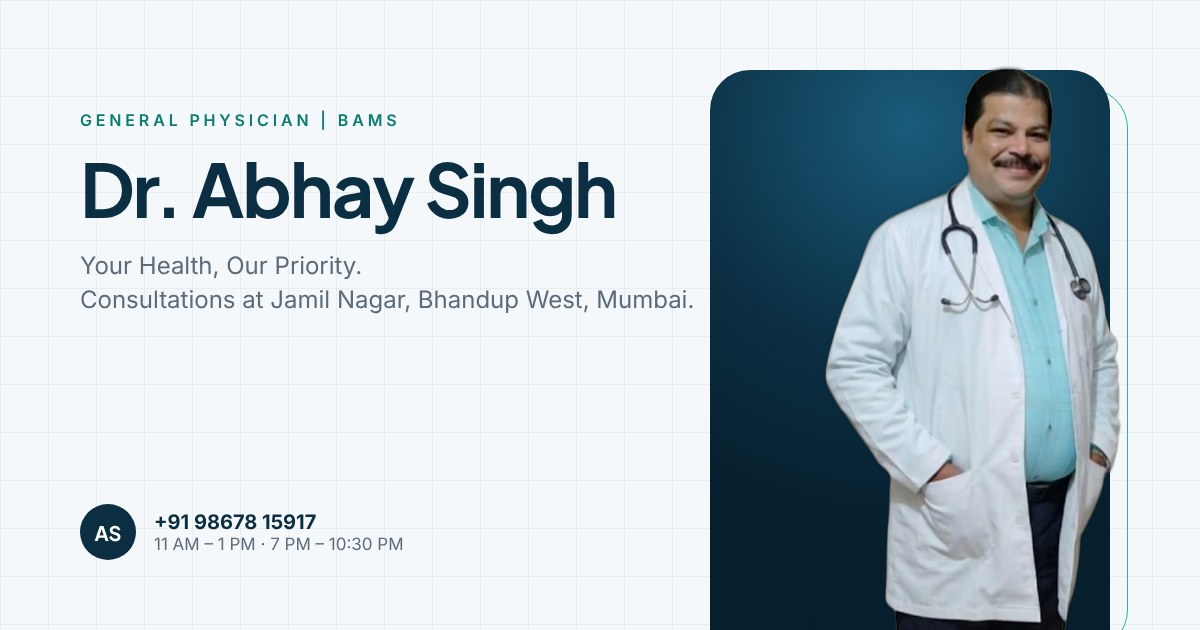
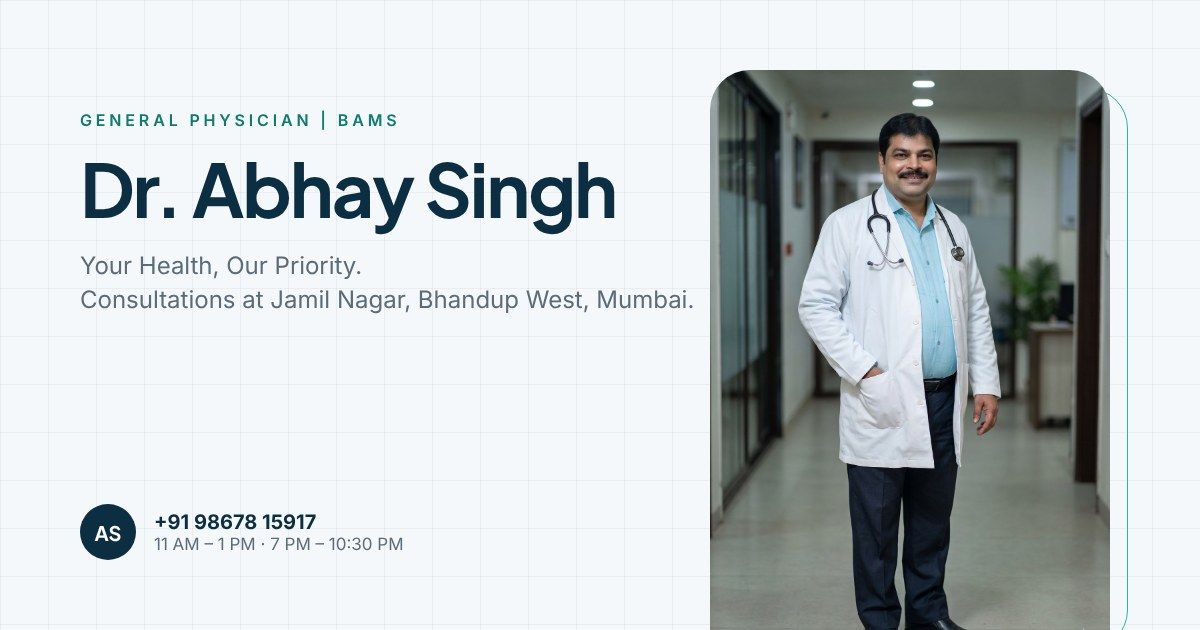
Replace hero photo with new full-length photograph
Use the new full-length white-coat photograph supplied by the practice as
the hero image (public/images/doctor-hero.jpg + .webp, 1200x1789), shown
uncut and unaltered inside a rounded frame with clip/blur reveal, light
sweep, parallax and hover zoom. Remove the old cut-out image, and update
structured data, preload hint, OG share image and README.

Claude-Session: https://claude.ai/code/session_016jrmgrJxnS4hWA3d865fSS

Changed region(s): [[0.5858, 0.0905, 0.9558, 1.0]]

diff --git a/src/components/Hero.tsx b/src/components/Hero.tsx
@@ -94,7 +94,7 @@ export function Hero({ ready }: { ready: boolean }) {
   const { scrollYProgress } = useScroll({ target: ref, offset: ["start start", "end start"] });
 
   // Scroll-linked parallax
-  const imgY = useTransform(scrollYProgress, [0, 1], ["0%", reduce ? "0%" : "10%"]);
+  const imgY = useTransform(scrollYProgress, [0, 1], ["0%", reduce ? "0%" : "5%"]);
   const textY = useTransform(scrollYProgress, [0, 1], ["0%", reduce ? "0%" : "-16%"]);
   const textOpacity = useTransform(scrollYProgress, [0, 0.7], [1, 0]);
   const ringsRotate = useTransform(scrollYProgress, [0, 1], [0, reduce ? 0 : 70]);
@@ -281,36 +281,46 @@ export function Hero({ ready }: { ready: boolean }) {
               animate={ready ? { opacity: 1, scale: 1 } : {}}
               transition={{ duration: 1.4, delay: d + 0.6, ease: EASE }}
             />
-            {/* Panel with reveal */}
-            <motion.div
-              className="absolute inset-0 overflow-hidden rounded-[40px] bg-navy shadow-lift"
+            {/* Doctor photograph — original photo, unaltered; cropped by layout only */}
+            <motion.figure
+              className="group absolute inset-0 m-0 overflow-hidden rounded-[40px] bg-navy shadow-lift"
               initial={{ clipPath: "inset(100% 0% 0% 0% round 40px)" }}
               animate={ready ? { clipPath: "inset(0% 0% 0% 0% round 40px)" } : {}}
               transition={{ duration: 1.4, delay: d, ease: EASE_IN_OUT }}
             >
-              <div className="absolute inset-0 bg-[radial-gradient(110%_75%_at_50%_10%,#1A5B7A_0%,#0B2E42_55%,#071E2C_100%)]" />
-              <div className="absolute inset-0 opacity-60 [background-image:linear-gradient(to_right,rgba(255,255,255,.06)_1px,transparent_1px),linear-gradient(to_bottom,rgba(255,255,255,.06)_1px,transparent_1px)] [background-size:40px_40px]" />
-              <Rings className="absolute left-1/2 top-[8%] w-[88%] -translate-x-1/2 text-teal/25" />
-              <div className="absolute inset-x-0 bottom-[22%] h-16 text-teal/50">
-                <PulseLine inView={false} delay={d + 1} className="h-full w-full" />
-              </div>
-              <div className="absolute inset-x-0 bottom-0 h-1/3 bg-gradient-to-t from-navy-deep/80 to-transparent" />
-            </motion.div>
-
-            {/* Doctor photograph (real photo, background removed — face untouched) */}
-            <motion.div className="absolute inset-x-0 bottom-0 top-[-6%] z-10 overflow-hidden rounded-b-[40px]" style={{ y: imgY }}>
-              <motion.img
-                src="/images/doctor-hero.webp"
-                alt={`${doctor.name}, ${doctor.title}, wearing a white coat and stethoscope`}
-                width={500}
-                height={980}
-                {...{ fetchpriority: "high" }}
-                className="absolute bottom-0 left-1/2 h-full w-auto max-w-none -translate-x-1/2 object-contain object-bottom drop-shadow-[0_30px_40px_rgba(7,30,44,.5)]"
-                initial={{ opacity: 0, y: 80, scale: 1.08 }}
-                animate={ready ? { opacity: 1, y: 0, scale: 1 } : {}}
-                transition={{ duration: 1.5, delay: d + 0.45, ease: EASE }}
-              />
-            </motion.div>
+              <motion.div className="absolute inset-x-0 top-[-4%] h-[108%]" style={{ y: imgY }}>
+                <div className="h-full w-full transition-transform duration-[1.4s] ease-[cubic-bezier(.16,1,.3,1)] group-hover:scale-[1.04]">
+                  <picture className="block h-full w-full">
+                    <source srcSet="/images/doctor-hero.webp" type="image/webp" />
+                    <motion.img
+                      src="/images/doctor-hero.jpg"
+                      alt={`${doctor.name}, ${doctor.title}, in a white coat with a stethoscope`}
+                      width={1200}
+                      height={1789}
+                      {...{ fetchpriority: "high" }}
+                      className="h-full w-full object-cover object-[50%_0%]"
+                      initial={{ scale: 1.18, filter: "blur(6px)" }}
+                      animate={ready ? { scale: 1, filter: "blur(0px)" } : {}}
+                      transition={{ duration: 1.8, delay: d + 0.2, ease: EASE }}
+                    />
+                  </picture>
+                </div>
+              </motion.div>
+              {/* Tonal overlays: depth at the base, soft teal light on hover */}
+              <div aria-hidden className="pointer-events-none absolute inset-x-0 bottom-0 h-2/5 bg-gradient-to-t from-navy-deep/70 via-navy-deep/20 to-transparent" />
+              <div aria-hidden className="pointer-events-none absolute inset-0 bg-[radial-gradient(90%_60%_at_50%_0%,rgba(43,179,163,.18),transparent_70%)] opacity-0 transition-opacity duration-700 group-hover:opacity-100" />
+              <div aria-hidden className="pointer-events-none absolute inset-0 rounded-[40px] ring-1 ring-inset ring-white/20" />
+              {/* Light sweep across the photo once revealed */}
+              {!reduce && (
+                <motion.div
+                  aria-hidden
+                  className="pointer-events-none absolute inset-y-0 -left-1/2 w-1/2 skew-x-[-18deg] bg-gradient-to-r from-transparent via-white/25 to-transparent"
+                  initial={{ x: "0%" }}
+                  animate={ready ? { x: "420%" } : {}}
+                  transition={{ duration: 1.6, delay: d + 1.3, ease: EASE_IN_OUT }}
+                />
+              )}
+            </motion.figure>
 
             {/* Rotating badge */}
             <motion.div

diff --git a/index.html b/index.html
@@ -38,7 +38,7 @@
     <meta name="twitter:description" content="General physician consultations in Bhandup West, Mumbai." />
     <meta name="twitter:image" content="/images/og-image.jpg" />
 
-    <link rel="preload" as="image" href="/images/doctor-hero.webp" type="image/webp" />
+    <link rel="preload" as="image" href="/images/doctor-hero.webp" type="image/webp" fetchpriority="high" />
 
     <!-- Structured data: only details provided and verified by the practice -->
     <script type="application/ld+json">
@@ -48,7 +48,7 @@
         "name": "Dr. Abhay Singh's Clinic",
         "description": "Independent general practice offering consultations for everyday health concerns, preventive healthcare and lifestyle guidance.",
         "telephone": "+919867815917",
-        "image": "/images/doctor-hero.png",
+        "image": "/images/doctor-hero.jpg",
         "address": {
           "@type": "PostalAddress",
           "streetAddress": "Jamil Nagar",

diff --git a/README.md b/README.md
@@ -44,7 +44,7 @@ Also review `hospital.intro` and `hospital.affiliation.text` with the doctor.
 
 ```
 public/images/
-  doctor-hero.webp / .png   White-coat photo from the supplied flyer. Background removed; face and features unchanged.
+  doctor-hero.jpg / .webp   Full-length white-coat photo supplied by the practice (1200×1789, unaltered; cropped by CSS).
   doctor-portrait.webp/.jpg Supplied portrait, cropped to 4:5.
   hiranandani-hospital.jpg/.webp  Hospital photograph supplied by the practice.
   og-image.jpg              1200×630 social sharing image.
@@ -52,7 +52,7 @@ public/favicon.svg          "AS" monogram favicon
 public/apple-touch-icon.png
 ```
 
-The white-coat photo was taken from the promotional flyer, so its resolution is limited (500 px wide). If you have the original high-resolution photo, replace `doctor-hero.webp` and `doctor-hero.png` with a transparent-background version at the same aspect ratio.
+The hero frame crops the full-length photo to a 4:5 portrait from the top using CSS, so the original image file keeps its full proportions.
 
 ## Appointment flow
 
